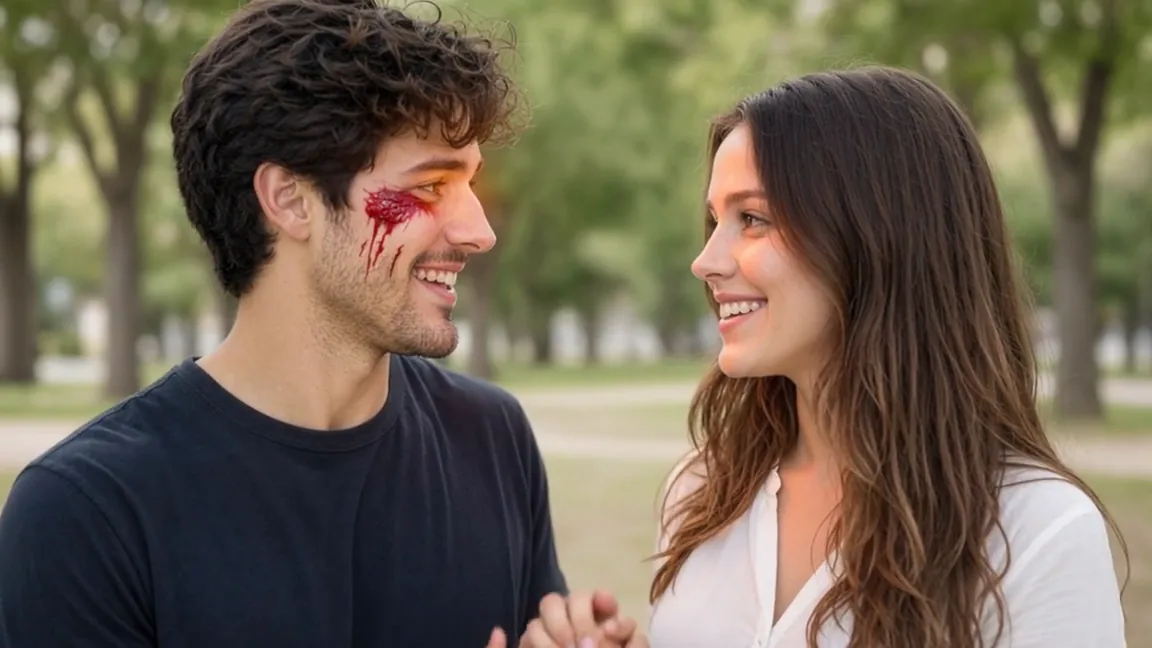
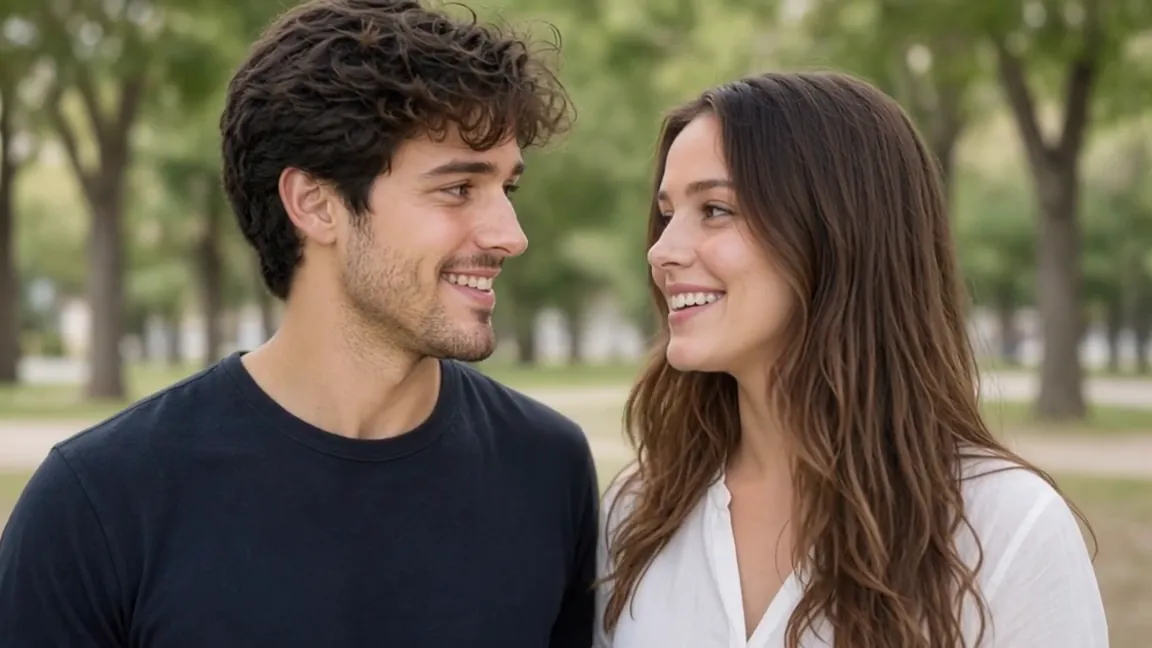
Compare three real takes in the screening monitor and finish the rate sheet

diff --git a/apps/video/src/styles/pricing-tokens.css b/apps/video/src/styles/pricing-tokens.css
@@ -1,20 +1,16 @@
 .pr-page { background: var(--du-bg); color: var(--du-text); padding-block: 48px var(--layout-section); }
 .pr-shell { max-width: var(--layout-content); padding-inline: var(--layout-gutter); margin-inline: auto; }
-.pr-page :is(h1,h2,h3,p,ul,figure,dl,dd) { margin: 0; }
+.pr-page :is(h1,h2,h3,p,ul,dl,dd) { margin: 0; }
 .pr-page ul { list-style: none; padding: 0; }
 .pr-page :is(h1,h2,h3,.pr-price,.pr-allowance strong,.pr-output strong,.pr-pack-price) { font-family: var(--font-display), sans-serif; }
 .pr-page h1 { font-size: clamp(64px,6.2vw,88px); line-height: .91; font-weight: 650; letter-spacing: -.06em; }
 .pr-page h2 { font-size: clamp(40px,4vw,56px); line-height: 1.0714; font-weight: 600; letter-spacing: -.045em; }
 .pr-page h3 { font-size: 24px; line-height: 28px; font-weight: 600; letter-spacing: -.025em; }
 .pr-page:lang(zh) :is(h1,h2,h3) { letter-spacing: -.025em; }
-.pr-page :is(.pr-meta,.pr-ledger__labels,.pr-still figcaption,.pr-recommended,.pr-toggle__badge,.pr-status,.pr-pack-info) { font-size: 13px; line-height: 16px; font-weight: 500; }
-.pr-ledger__labels,.pr-still figcaption { letter-spacing: .1em; text-transform: uppercase; color: var(--du-text-muted); }
-.pr-hero { position: relative; display: grid; grid-template-columns: minmax(0,1fr) minmax(240px,35%); align-items: center; gap: 32px; padding-bottom: 40px; border-bottom: 1px solid var(--du-surface-2); }
-.pr-hero__copy h1 { margin: 0 0 16px; }
+.pr-page :is(.pr-meta,.pr-ledger__labels,.pr-recommended,.pr-toggle__badge,.pr-status,.pr-pack-info) { font-size: 13px; line-height: 16px; font-weight: 500; }
+.pr-ledger__labels { letter-spacing: .1em; text-transform: uppercase; color: var(--du-text-muted); }
+.pr-hero { position: relative; display: grid; grid-template-columns: 1.12fr 1fr; align-items: center; gap: 32px; padding-bottom: 40px; border-bottom: 1px solid var(--du-surface-2); }
 .pr-hero__sub,.pr-sidecopy,.pr-faq p { max-width: 56ch; color: var(--du-text-muted); font-size: 16px; line-height: 24px; }
-.pr-still { position: relative; justify-self: end; width: 100%; max-width: 432px; }
-.pr-still img { display: block; width: 100%; height: 152px; object-fit: cover; object-position: right 55%; border-radius: 8px; }
-.pr-still figcaption { margin-top: 8px; text-align: right; }
 .pr-subscriptions { padding-top: 40px; }
 .pr-page :is(.pr-packs-section,.pr-costs,.pr-faq-section) { margin-top: var(--layout-section); }
 .pr-section-head { display: flex; align-items: flex-end; justify-content: space-between; gap: 24px; margin-bottom: 24px; }
@@ -51,7 +47,6 @@
 .pr-error { color: var(--du-danger); font-size: 13px; line-height: 16px; margin-top: 8px; }
 .pr-page .pr-quote-unit { margin: 0 0 12px; color: var(--du-text-muted); font-size: 13px; line-height: 18px; font-weight: 500; }
 .pr-page .pr-common { margin: 0 0 8px; color: var(--du-text-muted); font-size: 14px; line-height: 20px; }
-.pr-page .pr-basis { margin-top: 12px; color: var(--du-text-muted); font-size: 13px; line-height: 20px; }
 .pr-status a { display: inline-block; color: var(--du-text); text-decoration: underline; text-underline-offset: 3px; }
 .pr-status a:hover { color: var(--du-accent); }
 .pr-costs { scroll-margin-block-start: 24px; }
@@ -89,9 +84,7 @@
 @media (max-width: 767px) {
   .pr-page { padding-top: 32px; }
   .pr-hero { display: block; padding-bottom: 24px; }
-  .pr-hero__copy { position: relative; z-index: 1; }
-  .pr-hero__copy h1 { font-size: 44px; line-height: 46px; margin: 0 0 12px; }
-  .pr-still { display: none; }
+  .pr-hero h1 { font-size: 44px; line-height: 46px; margin: 0 0 12px; }
   .pr-page h2,.pr-costs h2 { font-size: 32px; line-height: 36px; }
   .pr-page h3 { font-size: 20px; line-height: 24px; }
   .pr-subscriptions { padding-top: 24px; }

diff --git a/apps/video/src/components/hf/conversion-media-tile.tsx b/apps/video/src/components/hf/conversion-media-tile.tsx
@@ -130,13 +130,14 @@ export function TemplateWall({ items, zh }: { items: TemplateMedia[]; zh: boolea
 
 const ScrollFilmCues = lazy(() => import("./scroll-film-cues").then(module => ({ default: module.ScrollFilmCues })));
 const screenTestCuts = [
-  { poster: "/conversion/showcase/daylight-take-1.webp", at: 0 },
-  { poster: "/conversion/showcase/daylight-take-2.webp", at: 4 },
-  { poster: "/conversion/showcase/daylight-take-3.webp", at: 8 },
+  { poster: "/conversion/showcase/daylight-take-1.webp", at: 0, en: "Eye markings", zh: "眼部纹理" },
+  { poster: "/conversion/showcase/daylight-take-2.webp", at: 4, en: "Gold rim light", zh: "金色环光" },
+  { poster: "/conversion/showcase/daylight-take-3.webp", at: 8, en: "Dog enters", zh: "小狗入画" },
 ];
 
-export function FeatureFilm({ src, label, playLabel }: { src: string; label: string; playLabel: string }) {
+export function FeatureFilm({ src, label, playLabel, zh }: { src: string; label: string; playLabel: string; zh: boolean }) {
   const stage = useRef<HTMLDivElement>(null);
+  const player = useRef<HTMLVideoElement>(null);
   const [started, setStarted] = useState(false);
   const [cut, setCut] = useState(0);
   const [followScroll, setFollowScroll] = useState(false);
@@ -158,11 +159,17 @@ export function FeatureFilm({ src, label, playLabel }: { src: string; label: str
     return () => { media.removeEventListener("change", sync); observer.disconnect(); };
   }, []);
   const cue = screenTestCuts[cut];
-  return <div ref={stage} className={s.filmStage}>
+  function selectTake(index: number) {
+    setCut(index);
+    if (player.current && player.current.readyState >= 1) player.current.currentTime = screenTestCuts[index].at;
+  }
+  return <>
+    <div data-screen-test="" ref={stage} className={s.filmStage}>
     {followScroll && !started && <Suspense fallback={null}><ScrollFilmCues film={stage} onCut={setCut} /></Suspense>}
     {started ? (
-      <video className={s.film} ref={player => { player?.focus({ preventScroll: true }); }} src={src} poster={cue.poster}
-        onLoadedMetadata={e => { e.currentTarget.currentTime = cue.at; }} controls autoPlay muted playsInline preload="metadata" aria-label={label} />
+      <video className={s.film} ref={player} src={src} poster={cue.poster}
+        onLoadedMetadata={e => { e.currentTarget.currentTime = cue.at; e.currentTarget.focus({ preventScroll: true }); }}
+        onTimeUpdate={e => { const time = e.currentTarget.currentTime; setCut(screenTestCuts.filter(take => time >= take.at).length - 1); }} controls autoPlay muted playsInline preload="metadata" aria-label={label} />
     ) : (
       <button className={s.film} type="button" onClick={() => setStarted(true)} aria-label={playLabel}>
         <img src={cue.poster} width={1600} height={736} loading="lazy" decoding="async" alt={label} />
@@ -170,7 +177,16 @@ export function FeatureFilm({ src, label, playLabel }: { src: string; label: str
         <span className={s.cutIndex} aria-hidden="true">{String(cut + 1).padStart(2, "0")} / 03</span>
       </button>
     )}
-  </div>;
+    </div>
+    <fieldset className={s.takeSelector} aria-label={zh ? "选择对照镜头" : "Compare takes"}>
+      {screenTestCuts.map((take, index) => (
+        <button type="button" key={take.at} aria-pressed={index === cut} onClick={() => selectTake(index)}>
+          <img src={take.poster} alt="" width={112} height={63} loading="lazy" decoding="async" />
+          <span>{zh ? take.zh : take.en}</span>
+        </button>
+      ))}
+    </fieldset>
+  </>;
 }
 
 export function EndFrame({ zh }: { zh: boolean }) {

diff --git a/apps/video/src/components/pricing/pricing-page.tsx b/apps/video/src/components/pricing/pricing-page.tsx
@@ -91,6 +91,8 @@ export function PricingPage({
   }
 
   const zh = locale === "zh";
+  const currency = (plans[0] ?? packs[0])?.price.currency.toUpperCase();
+  const currencyLabel = currency && (zh ? `${new Intl.DisplayNames("zh", { type: "currency" }).of(currency)}计价` : `Prices in ${currency}`);
   const sharedFeatures = (plans[0]?.features ?? []).filter((key) => plans.every((plan) => plan.features?.includes(key)));
   const packsShareFeatures = packs.length > 0 && packs.every((pack) => sharedFeatures.every((key) => pack.features?.includes(key)));
 
@@ -98,17 +100,13 @@ export function PricingPage({
     <div className="pr-page" lang={locale}>
       <div className="pr-shell">
         <header className="pr-hero">
+          <h1 className="pr-hero__title">{copy.heroTitle}</h1>
           <div className="pr-hero__copy">
-            <h1 className="pr-hero__title">{copy.heroTitle}</h1>
             <p className="pr-hero__sub">{zh ? "按期订阅，或为单个项目补充积分。" : "Subscribe for ongoing work, or top up for a single project."}</p>
             {!paymentsEnabled && <p className="pr-status" role="note">
               {copy.checkoutClosed}{" "}<a href="#credit-costs">{zh ? "查看积分用量" : "View credit costs"} <span aria-hidden="true">↓</span></a>
             </p>}
           </div>
-          <figure className="pr-still">
-            <img src="/conversion/showcase/optics.webp" width={720} height={360} alt="" loading="lazy" decoding="async" fetchPriority="low" />
-            <figcaption>{zh ? "光学引擎" : "Optical Engine"}</figcaption>
-          </figure>
         </header>
 
         <section className="pr-subscriptions" aria-labelledby="pr-subscriptions">
@@ -129,12 +127,11 @@ export function PricingPage({
             </fieldset>
           </div>
 
-          <p className="pr-quote-unit">
-            {zh ? "美元计价" : "Prices in USD"}
-            {referenceClip && (zh
-              ? ` · 按 ${referenceClip.duration} 秒 ${referenceClip.quality} 估算`
-              : ` · Estimates for ${referenceClip.duration}-second ${referenceClip.quality} clips`)}
-          </p>
+          {currencyLabel && <p className="pr-quote-unit">
+            {currencyLabel}{referenceClip && (zh
+              ? ` · ${referenceClip.model}，${referenceClip.duration} 秒 / ${referenceClip.quality}，每段 ${referenceClip.credits} 积分。片段数向下取整。`
+              : ` · ${referenceClip.model}, ${referenceClip.duration}s / ${referenceClip.quality}, ${referenceClip.credits} credits per clip. Counts rounded down.`)}
+          </p>}
           <div className="pr-ledger" data-estimate={!!referenceClip} data-checkout={paymentsEnabled}>
             <div className="pr-ledger__labels" aria-hidden="true">
               <span>{zh ? "方案" : "Plan"}</span><span>{zh ? "月均价" : "Monthly rate"}</span>
@@ -179,11 +176,6 @@ export function PricingPage({
               );
             })}
           </div>
-          {referenceClip && <p className="pr-basis">
-            {zh
-              ? `${referenceClip.model} 每段 ${referenceClip.credits} 积分，片段数按完整视频计算。`
-              : `${referenceClip.model} is billed at ${referenceClip.credits} credits per clip. Counts include whole clips only.`}
-          </p>}
           <details className="pr-plan-details">
             <summary>{zh ? "比较单位价格与共有权益" : "Compare unit prices and shared benefits"}</summary>
             {sharedFeatures.length > 0 && <p className="pr-common">

diff --git a/apps/video/src/components/hf/conversion-showcase.module.css b/apps/video/src/components/hf/conversion-showcase.module.css
@@ -87,6 +87,12 @@
 
 .featureSection { width: 100%; }
 .filmStage { position: relative; }
+.takeSelector { display: flex; gap: 8px; margin: 16px auto 0; max-width: var(--layout-content); padding-inline: var(--layout-gutter); }
+.takeSelector button { width: 112px; min-width: 0; padding-bottom: 4px; text-align: start; color: var(--du-text-muted); border-bottom: 2px solid transparent; }
+.takeSelector button[aria-pressed="true"] { color: var(--du-text); border-bottom-color: var(--du-accent); }
+.takeSelector button:hover { color: var(--du-text); }
+.takeSelector img { display: block; width: 100%; aspect-ratio: 16/9; height: auto; object-fit: cover; border-radius: 4px; }
+.takeSelector span { display: block; margin-top: 8px; font-size: 13px; line-height: 16px; }
 .cutIndex { position: absolute; right: var(--layout-gutter); bottom: 24px; color: var(--du-text); background: var(--du-glass-overlay-scrim); padding: 4px 8px; font: 500 13px/16px ui-monospace, monospace; }
 .film { display: block; position: relative; width: 100%; aspect-ratio: 2.39; border: 0; border-radius: 0; padding: 0; background: var(--du-bg-elev); color: var(--du-text); object-fit: cover; }
 button.film { cursor: pointer; }
@@ -128,6 +134,7 @@ button.film { cursor: pointer; }
   .tileName { bottom: 8px; left: 8px; }
   .sectionCta { margin-top: 24px; }
   .film { aspect-ratio: 1.65; }
+  .takeSelector button { width: min(104px, 30vw); }
   .filmPlay { bottom: 8px; left: 8px; }
   .filmFooter { align-items: start; flex-direction: column; gap: 16px; padding-top: 16px; }
   .gallery { grid-template-columns: 1.2fr 1fr; gap: 16px 8px; align-items: start; }

diff --git a/apps/video/tests/pricing-view.test.ts b/apps/video/tests/pricing-view.test.ts
@@ -79,12 +79,12 @@ describe("pricing cards", () => {
     expect(plansForPeriod(products, "year").map((p) => completeClipCount(p, ref.credits))).toEqual([210, 720, 2137]);
     const html = renderPricing("en", false);
     expect([...html.matchAll(/class="pr-output"><strong>([\d,]+)<\/strong>/g)].map((m) => m[1])).toEqual(["17", "60", "178"]);
-    expect(html.split("billed at 16 credits per clip")).toHaveLength(2);
+    expect(html.split("16 credits per clip")).toHaveLength(2);
     expect(html.indexOf("Prices in USD")).toBeLessThan(html.indexOf('class="pr-ledger"'));
-    expect(html).toContain("Estimates for 4-second 720p clips");
+    expect(html).toContain("Seedance 1.5 Pro, 4s / 720p, 16 credits per clip. Counts rounded down.");
     expect(html).toContain("video clips / month");
     const zh = renderPricing("zh", false);
-    expect(zh).toContain("按 4 秒 720p 估算");
+    expect(zh).toContain("Seedance 1.5 Pro，4 秒 / 720p，每段 16 积分。片段数向下取整。");
     expect(zh).toContain("段视频 / 月");
     expect(zh).toMatch(/<details class="pr-plan-details">[\s\S]*?共有权益[\s\S]*?所有订阅和积分包均包含/);
   });
@@ -99,6 +99,7 @@ describe("pricing cards", () => {
     const html = renderPricing("en", true, null);
     expect(html).not.toContain('class="pr-output"');
     expect(html).toContain("Prices in USD");
-    expect(html).not.toContain("Estimates for");
+    expect(html).not.toContain("Counts rounded down");
+    expect(html).not.toContain("credits per clip.");
   });
 });

diff --git a/apps/video/src/components/hf/conversion-showcase.tsx b/apps/video/src/components/hf/conversion-showcase.tsx
@@ -123,7 +123,7 @@ export function ConversionShowcase({ lang }: { lang: string }) {
     </section>
     <section id="long-film" className={s.featureSection} aria-labelledby="showcase-film-title">
       <div className={s.featureHeading}><h2 id="showcase-film-title">{zh ? "同一机位，三次试镜" : "One setup, three takes"}</h2></div>
-      <FeatureFilm src={media + "daylight-takes.mp4"} label={zh ? "同一机位，三次试镜" : "One setup, three takes"} playLabel={zh ? "播放三段试镜" : "Play the three takes"} />
+      <FeatureFilm zh={zh} src={media + "daylight-takes.mp4"} label={zh ? "同一机位，三次试镜" : "One setup, three takes"} playLabel={zh ? "播放三段试镜" : "Play the three takes"} />
       <div className={s.filmFooter}>
         <p>{zh ? "12 秒，同一个双人机位。前两条改变眼部光效，最后一条让小狗入画。" : "12 seconds from one camera position. Two takes change the light around the eyes. In the third, a dog enters the frame."}</p>
         <CreationCTA lang={lang} placement="long-film" />

diff --git a/apps/video/src/components/motion/motion.css b/apps/video/src/components/motion/motion.css
@@ -30,7 +30,7 @@
   #template-wall.motion-wall .motion-lane, #template-wall.motion-wall .motion-run { display:contents; }
   #template-wall.motion-wall .motion-run[data-copy="1"] { display:none; }
   .motion-tile[data-order="0"]{order:0}.motion-tile[data-order="1"]{order:1}.motion-tile[data-order="2"]{order:2}.motion-tile[data-order="3"]{order:3}.motion-tile[data-order="4"]{order:4}.motion-tile[data-order="5"]{order:5}
-  #template-wall.motion-wall .motion-tile a { aspect-ratio:1.8; }
+  #template-wall.motion-wall .motion-tile a { aspect-ratio:auto; height:auto; }
   #template-wall.motion-wall .motion-tile { scroll-snap-align:start; }
   .motion-touch-preview { display:grid; place-items:center; position:absolute; top:8px; right:8px; width:44px; height:44px; border-radius:50%; color:var(--du-text); border:1px solid var(--du-border); background:var(--du-glass-bg); }
   button.motion-marquee-toggle { display:none; }

diff --git a/apps/video/src/styles/conversion-home-mobile.css b/apps/video/src/styles/conversion-home-mobile.css
@@ -25,7 +25,8 @@
 
   #template-wall a {
     width: 100%;
-    aspect-ratio: 1.8;
+    aspect-ratio: auto;
+    height: auto;
     scroll-snap-align: start;
   }
 

diff --git a/AGENTS.md b/AGENTS.md
@@ -1,2 +1,3 @@
 Read DESIGN.md before any UI work.
 For every UI PR, apply the visual review protocol in DESIGN.md and attach the two viewport sizes and independent scores to the PR. Update DESIGN.md in the same change when a visual rule changes.
+Before implementing a major new section, write the visual direction, content sequence and interactions in the PR. Compare two real-media compositions, record the decision, and self-check both viewports in Playwright before the independent review. Include observable interaction notes from the reference product and identify any sign-in boundary.
